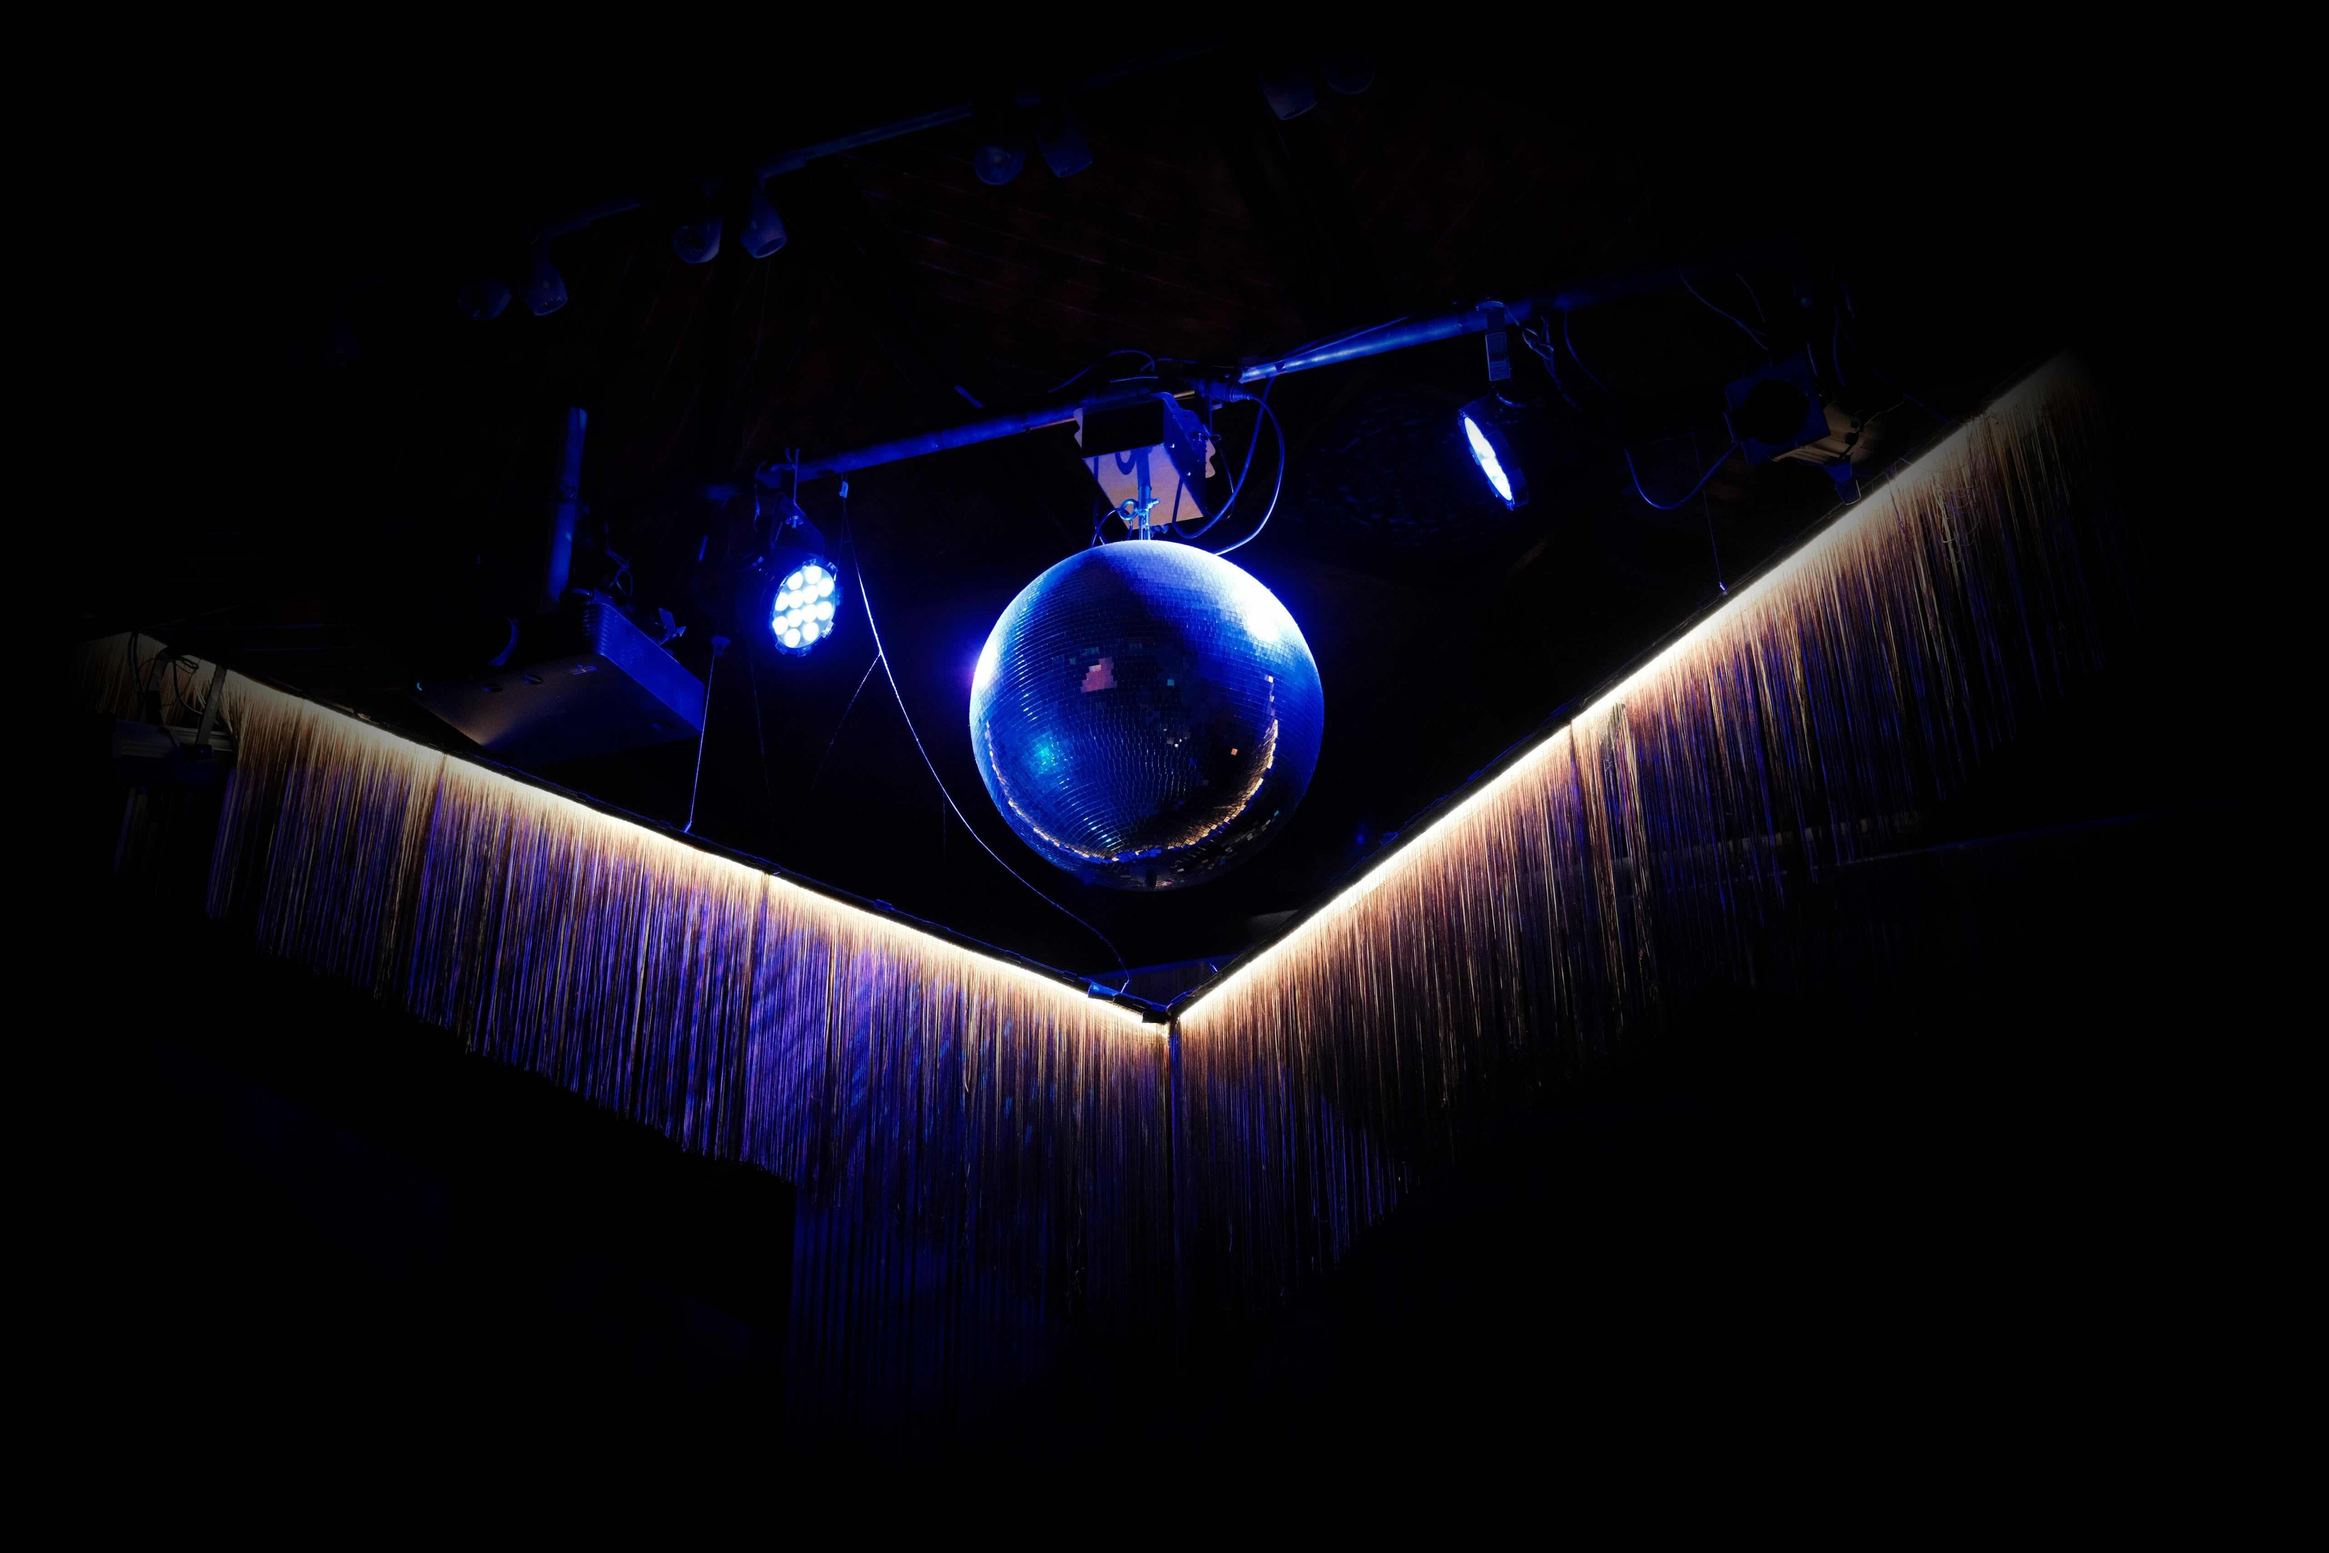
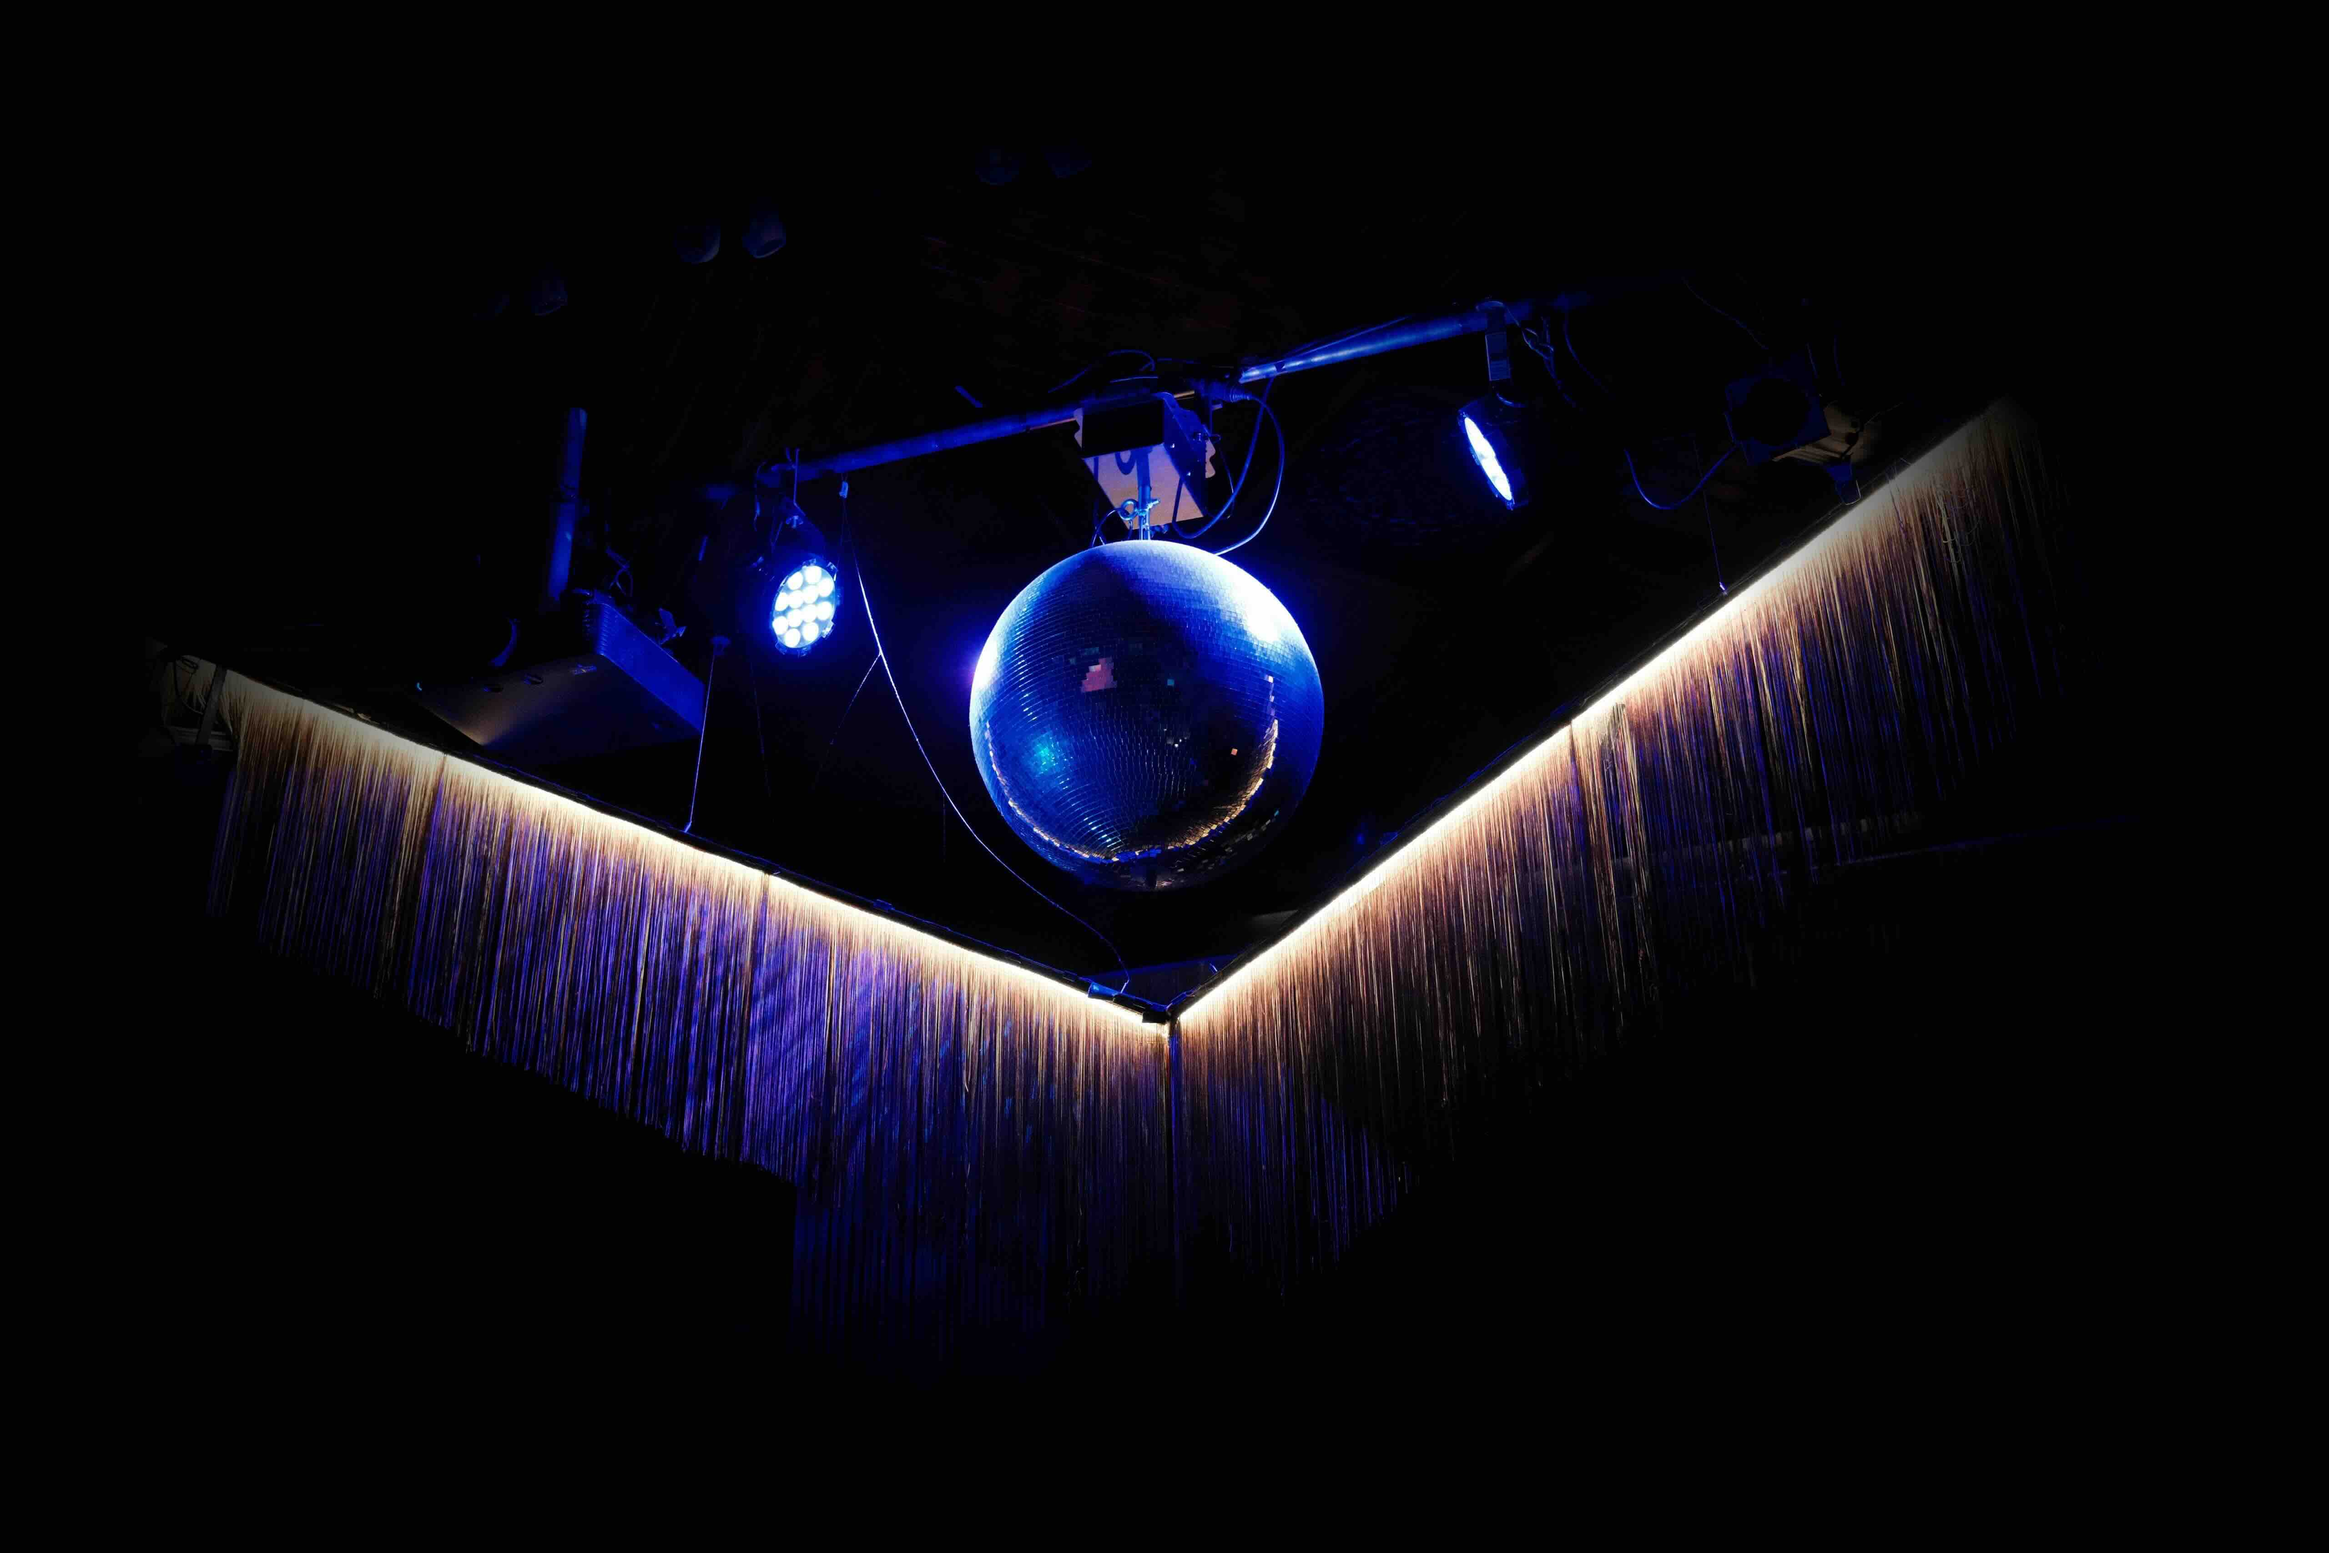
Compress photo and updated body text

diff --git a/index.md b/index.md
@@ -9,7 +9,7 @@ We're Melbourne's hi-fi dance party for the socially engaged and sonically curio
 
 Our next party is 14 February 2026. To get notified when tickets are on sale, [join the mailing list](http://eepurl.com/iD0_9A){:target="_blank" rel="noopener noreferrer"}. For a taste of what to expect, [listen back to previous parties](/listen.md).
 
-If you need to get in touch, reach out through [email](mailto:hi@suitepastiche.com) or [Instagram](https://www.instagram.com/suitepastiche){:target="_blank" rel="noopener noreferrer"}.
+To get in touch, [email us](mailto:hi@suitepastiche.com) or [message us on Instagram](https://www.instagram.com/suitepastiche){:target="_blank" rel="noopener noreferrer"}.
 
 See you on the dance floor!
 
